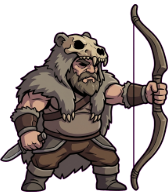
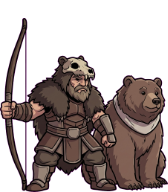
곰이 사냥꾼 옆에 같이 섭니다
2.5절이 「초상화 안에 같이 들어가도 되지만」이라고 열어 둔 쪽입니다. 열려
있는 줄 알면서 안 골랐는데, 골랐어야 했습니다 — 활만 든 사람은 검정에서든
색에서든 그냥 또 한 명의 궁수입니다. 곰이 옆에 있으면 「곰을 앞서 보내는
사람」이라는 것이 카드 한 장에서 다 보입니다.

판 위에 설 곰(ally-bear)은 그것대로 따로 있습니다. 둘은 다른 그림입니다 —
하나는 168px 초상화 안에 서고 하나는 48px 로 발판에 섭니다.

── 틈을 만드는 데 네 번 걸렸습니다 ─────────────────────
처음 세 판은 사람과 곰이 붙어서 검정에서 덩어리 하나였습니다. 「띄우라」고
적는 것만으로는 안 되고, **둘 사이로 배경이 뚫려 보여야 한다**고 적고 나서야
틈이 생겼습니다.

그래도 곰이 따로 세어지지는 않습니다. 칸이 세로로 길어서(97×123) 둘을 더
벌리면 무리가 가로로 넓어지고, 상자에 맞추느라 통째로 작아집니다. 곰은 사람
옆의 **두 번째 덩어리**로 남습니다.

여덟을 가르는 데는 지장이 없습니다 — 큰 활꼴에 여덟 중 가장 넓은 몸이라
이 칸은 혼자입니다. 궁수와도 갈립니다: 궁수는 가늘고 높고 활이 작게 위에
붙는데, 이쪽은 넓고 낮고 활이 몸만 한 활꼴로 옆에 섭니다.

ART.md 2.5절에 둘 다 그렸다는 것과, 검정에서 어디까지 되고 어디부터 안
되는지를 적어 뒀습니다.

검사 셋 통과.

Claude-Session: https://claude.ai/code/session_01M5pTenpaLjjehZFnDFMiCo

diff --git a/gen-sprite.js b/gen-sprite.js
@@ -147,6 +147,18 @@ const SUBJECTS = [
   // 곰사냥꾼 — 열쇠가 **활**인데 궁수도 활입니다. 검정에서 활 하나로는
   // 둘이 같은 그림이 되므로 ART.md 2.5절이 자세로 가르라고 못박았습니다.
   // 궁수는 곧게 서서 겨누고, 이쪽은 **활을 내린 채** 무겁게 섭니다.
+  //
+  // **곰이 옆에 같이 섭니다.** 2.5절이 "초상화 안에 같이 들어가도 되지만"
+  // 이라고 열어 둔 쪽입니다 — 판 위에 설 곰(ally-bear)은 그것대로 따로
+  // 있어야 하고, 이건 초상화 안의 곰입니다. 둘이 같이 서면 이 사람이
+  // 무엇을 하는 사람인지가 한 장에서 다 보입니다.
+  //
+  // 다만 칸이 세로로 깁니다(97×123). 곰을 옆으로 눕혀 세우면 무리가 가로로
+  // 넓어져서 상자에 맞추느라 통째로 작아집니다. 그래서 **앉혀서 머리를
+  // 들게** 합니다 — 같은 곰인데 세로로 서고, 사람과 키를 나눠 가집니다.
+  //
+  // 그리고 셋 사이를 띄웁니다. 붙으면 검정에서 덩어리 하나가 됩니다 —
+  // 사령술사의 부하 셋과 같은 규칙입니다.
   { name: 'player-hunter', group: 'player', w: 42, h: 48, anchor: 'bottom',
     style: ['player-warrior', 'player-rogue'],
     what: 'A bear hunter hero: a heavy, thick-set, wide-legged figure standing planted and '
@@ -166,9 +178,25 @@ const SUBJECTS = [
         + 'Below the mantle he is in close-fitting leather with his legs clearly separated. '
         + 'A bearded, weather-beaten older face under the skull hood. '
         + 'Muted grey-brown hide #BCAAA4 with darker brown leather. '
+        + 'HIS BEAR STANDS WITH HIM, on the opposite side from the bow. The bear is SITTING '
+        + 'UP on its haunches with its head raised, compact and upright rather than stretched '
+        + 'out sideways, its head reaching about as high as the man\'s chest. It is a big '
+        + 'shaggy brown bear with kind eyes and no bared fangs, wearing a wide PALE BAND '
+        + 'around its neck — it is his companion, not a threat, and the two stand calmly '
+        + 'together. Warm brown fur #8D6E63, pale band #BCAAA4. '
+        + 'THE SINGLE MOST IMPORTANT THING: the man and the bear MUST NOT TOUCH. Leave a '
+        + 'visible channel of empty background running all the way between them, from the '
+        + 'ground right up past the bear\'s head — you should be able to see straight through '
+        + 'the gap. The bear\'s fur must not brush his arm, his hip or his leg, and the two '
+        + 'must not overlap at any point. Do the same between the man and the bow. '
+        + 'Imagine all three filled in as flat black shapes: a viewer must still count THREE '
+        + 'separate silhouettes — a bow, a man, and an animal — not one merged lump. '
+        + 'The bear sits back on its haunches so it is tall and narrow rather than sprawling '
+        + 'sideways, which keeps the group compact even with the gaps. '
+        + 'Keep the whole group no wider than it is tall. '
         + 'He must NOT read like the slim upright archer: the archer stands tall and draws '
         + 'the bow, this man stands wide and low and carries it at rest out to one side. '
-        + 'Nothing on him is red, crimson, scarlet or orange.' },
+        + 'Nothing on him or the bear is red, crimson, scarlet or orange.' },
 
   // 사령술사 — 부하 셋이 열쇠인데, **몸에 붙으면 검정에서 안 세어집니다.**
   // 셋을 몸에서 떼어 놓는 것이 이 한 장의 전부입니다.

diff --git a/ART.md b/ART.md
@@ -247,7 +247,7 @@ CHROME_PATH=... node sil-check.js 새직업.png     → shots/silhouette.png
 | 직업 | 하는 일 | 몸 밖으로 나오는 것 (실루엣 열쇠) |
 |---|---|---|
 | **권법사** | **무기를 안 씁니다.** 연타가 쌓일수록 세집니다 | **맨손** + 한 발을 높이 든 자세. **손에 아무것도 없다는 것 자체가 열쇠**라 다른 일곱과 바로 갈립니다 |
-| **곰사냥꾼** | **곰을 앞서 보내** 적을 먼저 잡게 하고, 본인은 뒤에서 **활**로 씁니다 | **활**. 궁수와 겹치므로 **자세로 갈라야 합니다** — 궁수는 곧게 서서 겨누고, 이쪽은 **활을 내린 채** 무겁게 섭니다. 털가죽이나 뿔 장식으로 윤곽을 거칠게 |
+| **곰사냥꾼** | **곰을 앞서 보내** 적을 먼저 잡게 하고, 본인은 뒤에서 **활**로 씁니다 | **활**. 궁수와 겹치므로 **자세로 갈라야 합니다** — 궁수는 곧게 서서 겨누고, 이쪽은 **활을 내린 채** 무겁게 섭니다. 그리고 **곰이 옆에 같이 섭니다**(아래) |
 | **사령술사** | 죽은 적을 **셋까지** 부하로 부립니다 | 몸 뒤에 **떠 있는 작은 것 셋**. 몸에서 떨어져 있어야 검정에서 셋으로 셉니다 |
 | **마법사** | **지팡이**를 씁니다. **자루마다 다른 투사체**가 나갑니다 | **긴 지팡이**가 머리 위로 솟음 + 뾰족한 모자. 지팡이가 열쇠고 모자는 덤입니다 |
 | **도굴꾼** | **유물을 다섯 개**나 듭니다. 대신 맨몸이 가장 약합니다 | 등에 **불룩한 자루** + 손에 **곡괭이**. 윤곽이 뒤(자루)와 앞(곡괭이) 양쪽으로 튀어나옵니다 |
@@ -256,6 +256,17 @@ CHROME_PATH=... node sil-check.js 새직업.png     → shots/silhouette.png
 움직이는 것**입니다. 초상화 안에 같이 들어가도 되지만, **판 위에 설 곰 한 장**이
 따로 필요합니다 (규격은 3절 적들과 같습니다). 지금 목록에 없는 그림이니 잊지
 마세요.
+
+> **둘 다 그렸습니다.** 초상화 안에는 곰이 사냥꾼 옆에 같이 서고
+> (`player-hunter`), 판 위에 서는 곰은 따로 있습니다 (`ally-bear`).
+> 「곰을 앞서 보내는 사람」이라는 것이 카드 한 장에서 다 보이는 편이
+> 낫습니다 — 활만으로는 그냥 또 한 명의 궁수입니다.
+>
+> **다만 검정에서 곰은 따로 안 세어집니다.** 네 번 굴려서 사람과 곰 사이에
+> 배경이 보이는 틈까지는 갔지만, 칸이 세로로 길어서(97×123) 둘을 더 벌리면
+> 무리가 가로로 넓어지고 상자에 맞추느라 통째로 작아집니다. 그래서 곰은
+> 사람 옆의 **두 번째 덩어리**로 남습니다. 여덟을 가르는 데는 지장이
+> 없습니다 — 큰 활꼴에 가장 넓은 몸이라 이 칸은 혼자입니다.
 
 **사령술사의 부하 셋**도 마찬가지입니다. 판 위에서 **적과 한눈에 갈려야** 합니다 —
 적보다 작게(0.6배), 색을 달리하거나 표식을 하나 얹어 주세요. 이건 초상화가 아니라
